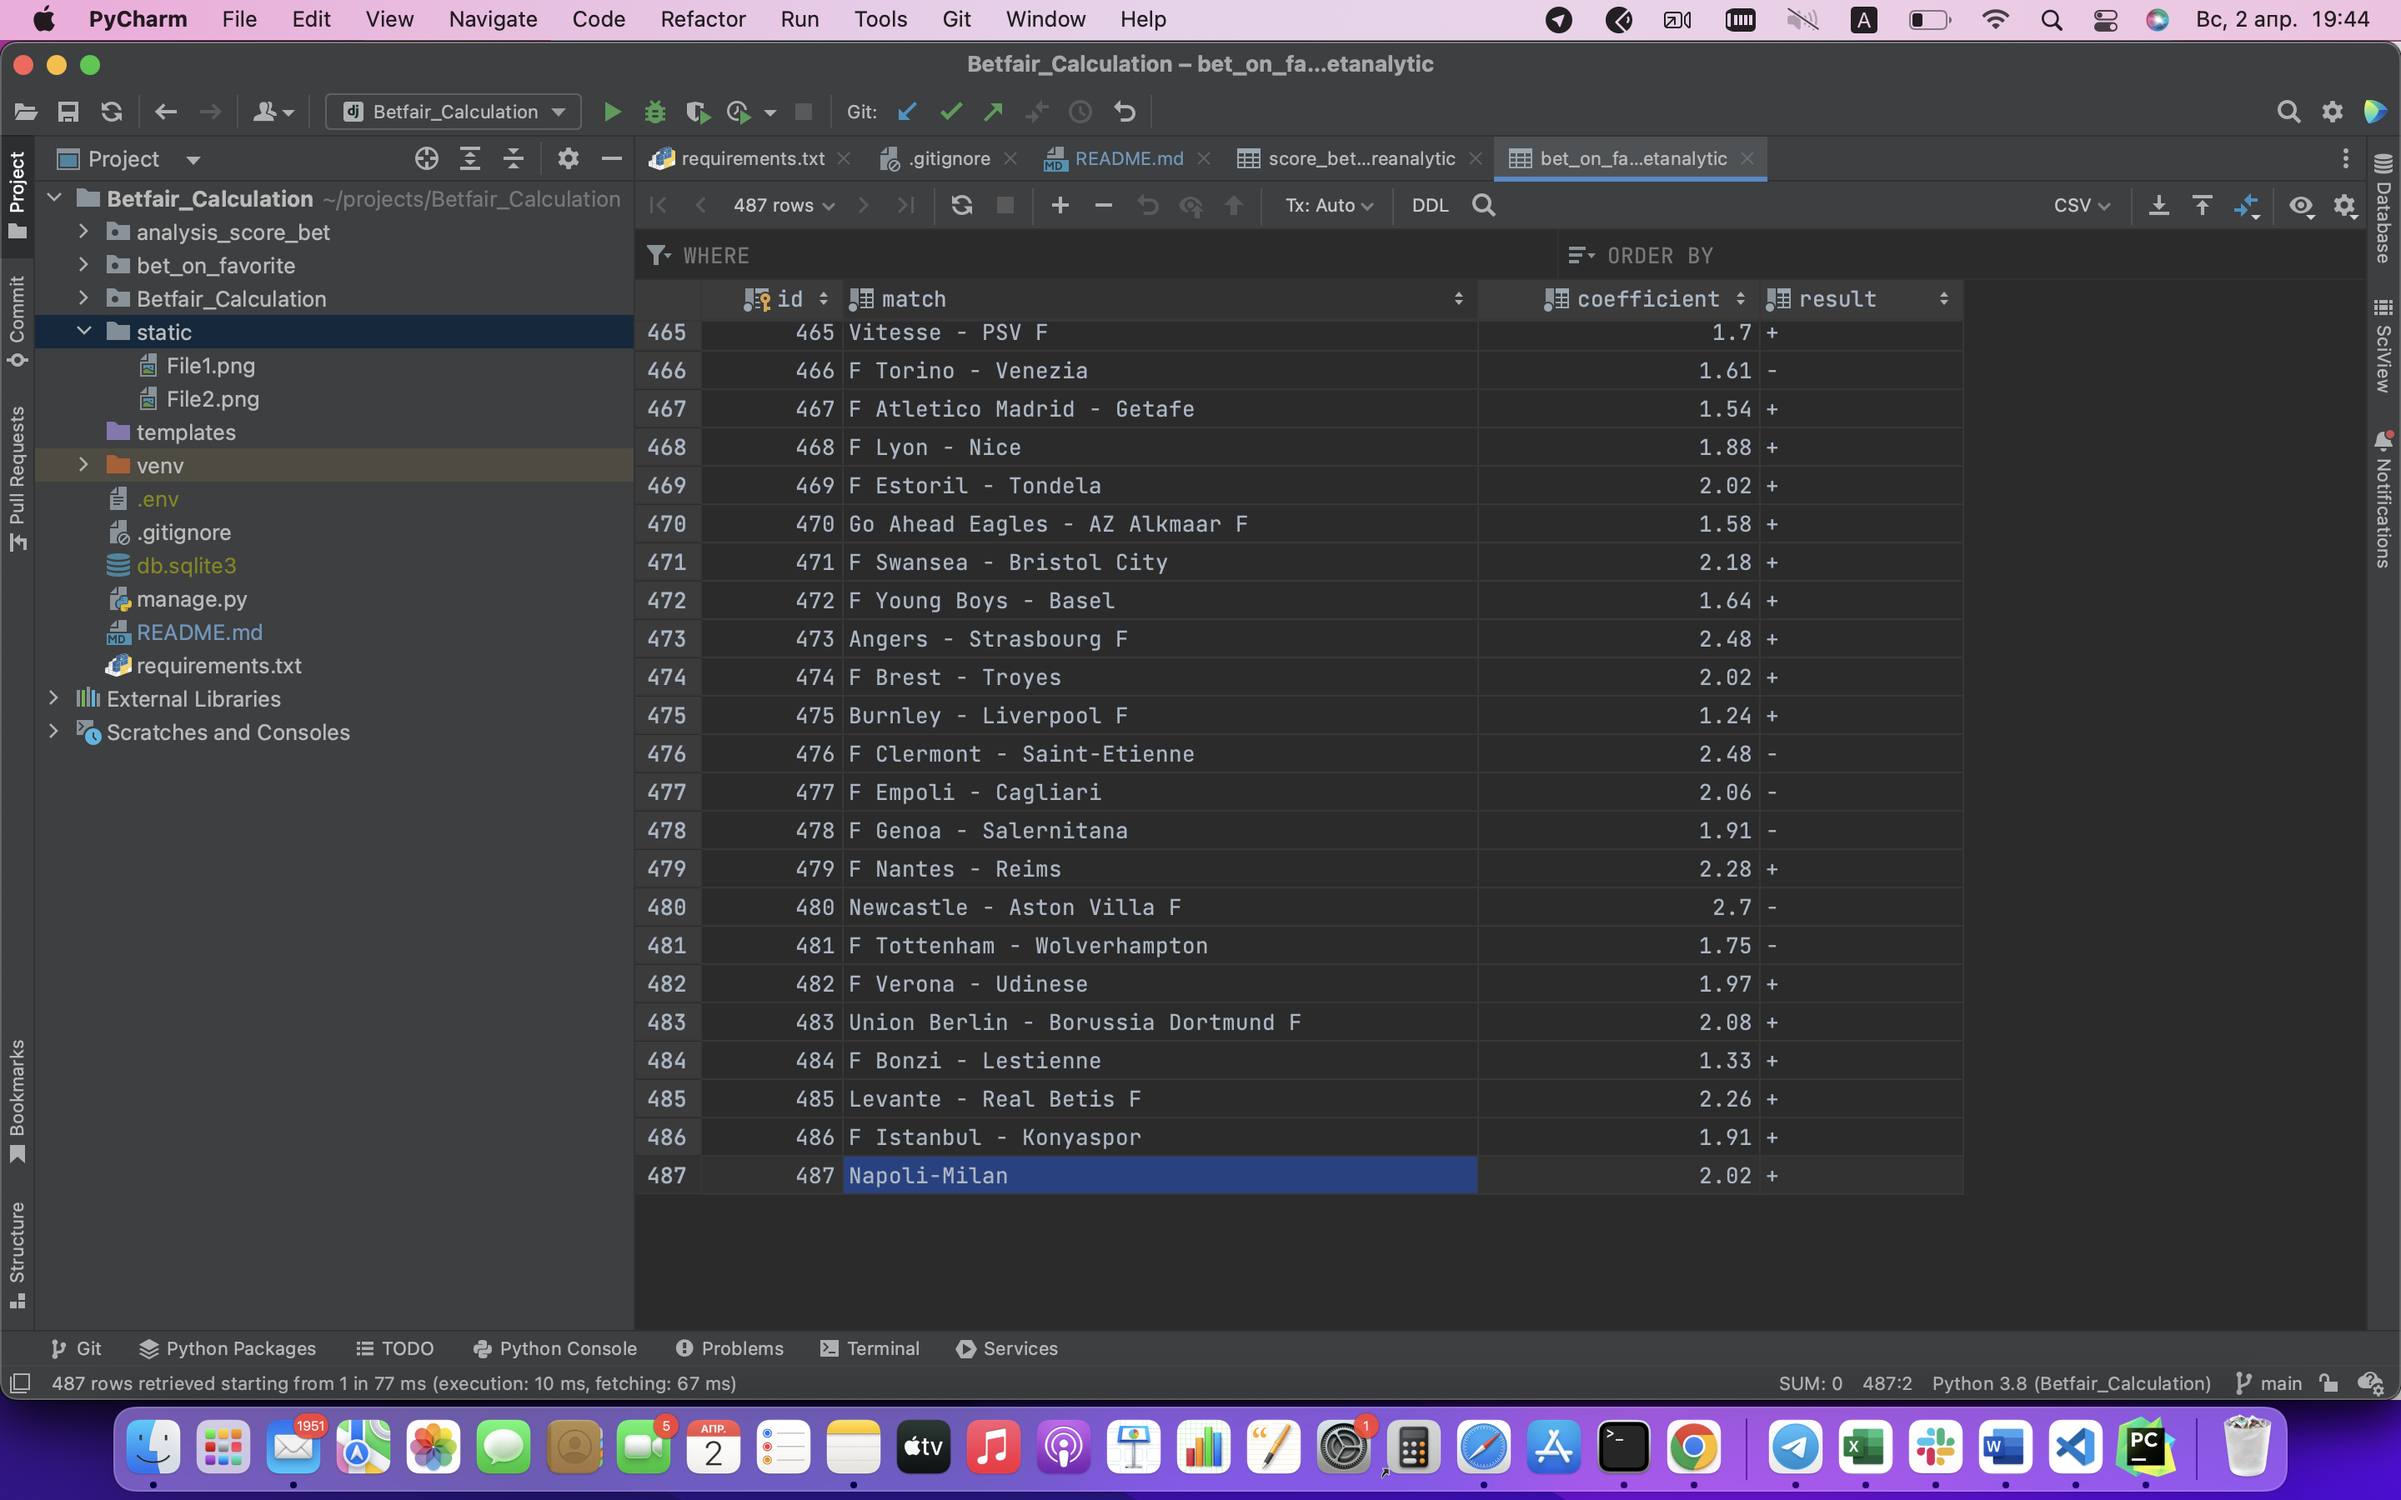
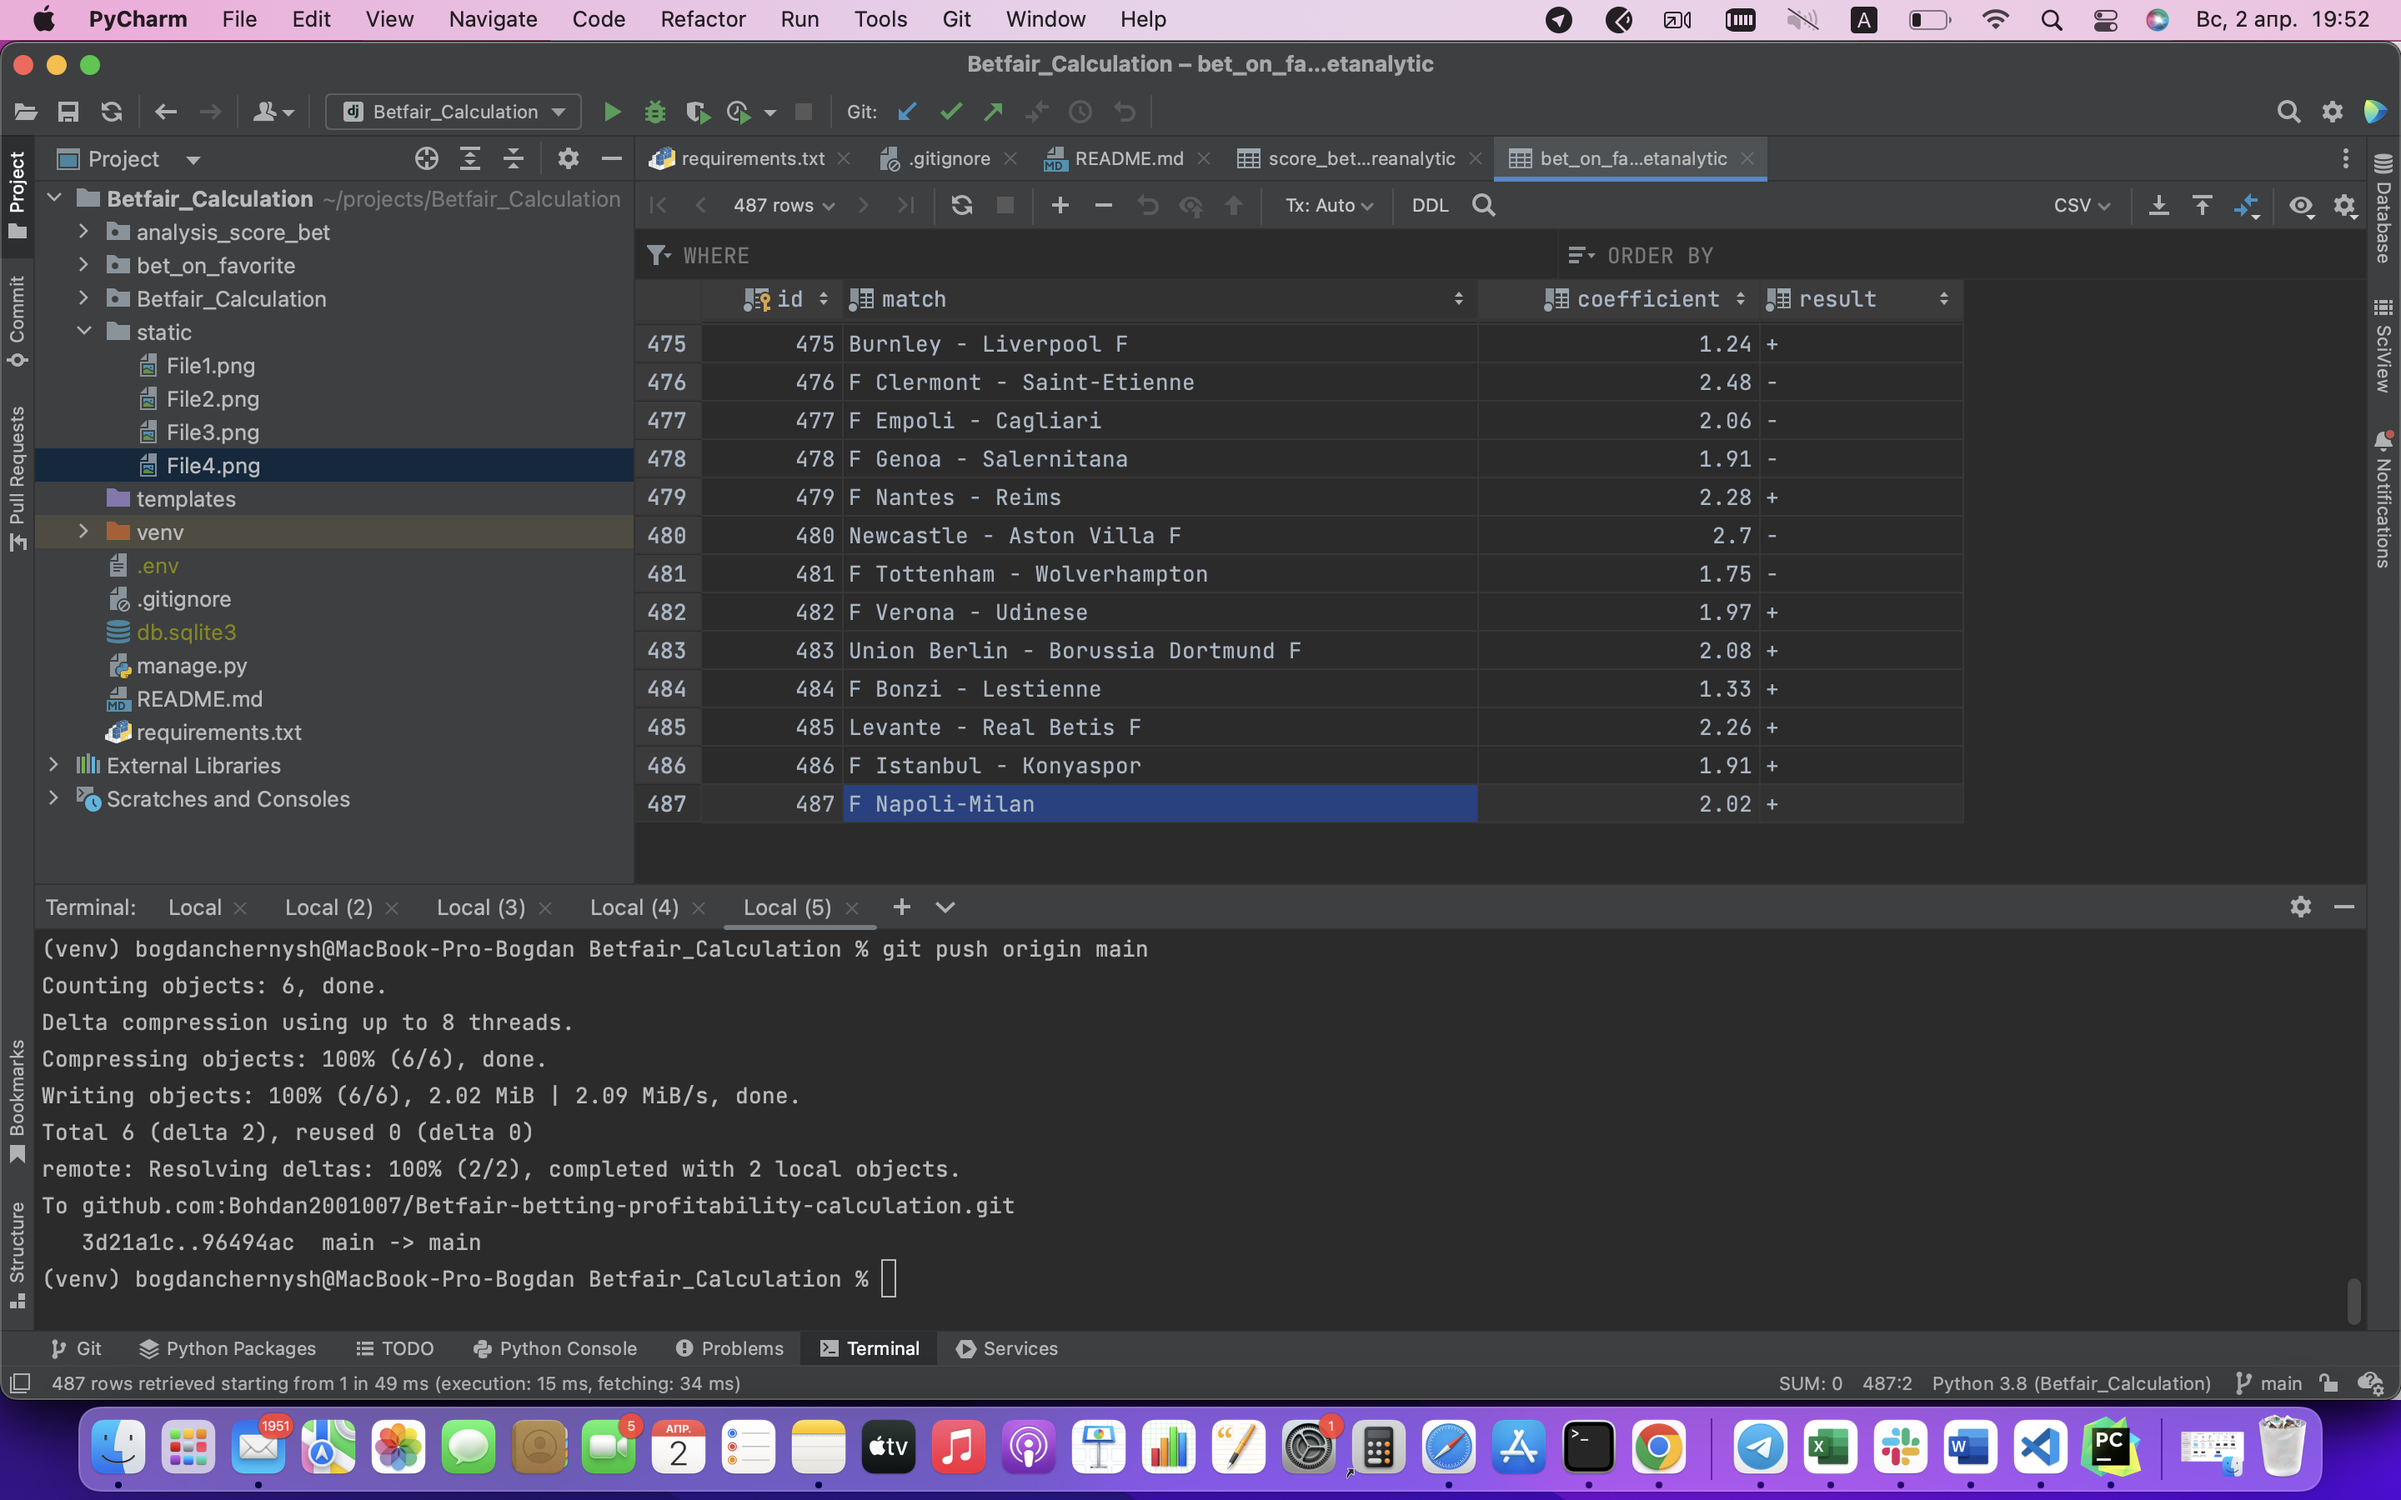
Updated Readme.md

diff --git a/README.md b/README.md
@@ -24,5 +24,8 @@ As field "result" is obligatory, I must fill them not knowing result, because le
 
 ![File3](/static/File3.png)
 
+
+We add "F" before home team if It is a favorite or add "F" after guest team if It is a favorite
+
 ![File4](/static/File4.png)
 
